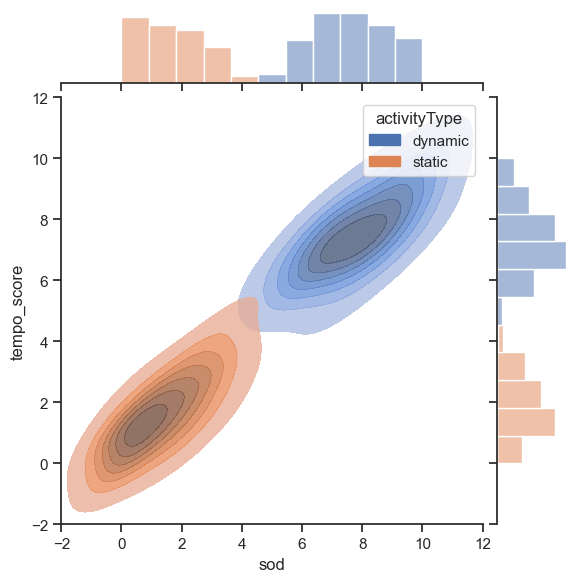
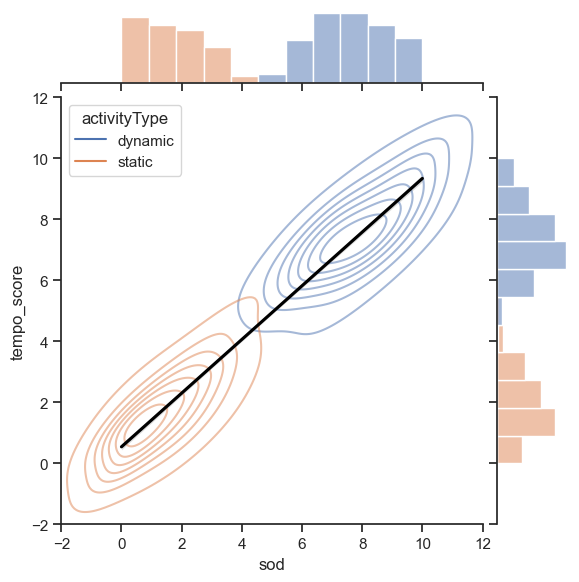
plots

Changed region(s): [[0.0933, 0.1856, 0.8394, 0.8969], [0.1244, 0.1856, 0.3109, 0.3093]]

diff --git a/code/artworkAnalyze.py b/code/artworkAnalyze.py
@@ -80,7 +80,8 @@ def tempo_graph():
     #ax = sns.lmplot(x="sod", y="tempo_score", data=df,  hue="activityType", palette=palette_colorTwo, scatter=False, legend=False)
     #ax.set(ylim=(-2, 12))   
     #ax.set(xlim=(-2, 12))   
-    ax = sns.kdeplot(x="sod", y="tempo_score", data=df, fill=True, alpha=.8, levels=8, hue="activityType", bw_adjust=1.8) 
+    ax = sns.kdeplot(x="sod", y="tempo_score", data=df, fill=False, alpha=.5, levels=8, hue="activityType", bw_adjust=1.8, linewidth=0)
+    ax = sns.regplot(x="sod", y="tempo_score", data=df, scatter=False, color="black")
     ax.set_xlim([-2, 12])
     ax.set_ylim([-2, 12])
     #ax.set_ylabel("Sense of Dynamic Score")
@@ -97,12 +98,12 @@ def pitch_graph():
     print(df_new.head(4))
     ax = plt.figure(figsize = (4,4))
     
-    ax = sns.jointplot(x="sod", y="pitch_score", data=df, kind="hist",  alpha=0.0, hue="activityType", palette=palette_colorTwo, legend = False)
+    ax = sns.jointplot(x="sod", y="pitch_score", data=df, kind="hist",  alpha=0.0, hue="activityType", palette=palette_colorTwo, legend = False, linewidth=0.3)
     #ax = sns.lmplot(x="sod", y="pitch_score", data=df,  hue="activityType", palette=palette_colorTwo, scatter=False, legend=False)
     #ax.set(ylim=(-2, 12))   
     #ax.set(xlim=(-2, 12))   
-    ax = sns.kdeplot(x="sod", y="pitch_score", data=df, fill=True, alpha=.8,  hue="activityType")
-    
+    ax = sns.kdeplot(x="sod", y="pitch_score", data=df, fill=False, alpha=.5,  hue="activityType", bw_adjust=1.2)
+    ax = sns.regplot(x="sod", y="pitch_score", data=df, scatter=False, color="black")
     ax.set_xlim([-2, 12])
     ax.set_ylim([-2, 12])
     #ax.set_xlabel("Pitch Level")
@@ -123,7 +124,8 @@ def density_graph():
     #ax = sns.lmplot(x="sod", y="density_score", data=df,  hue="activityType", palette=palette_colorTwo, scatter=False, legend=False)
     #ax.set(ylim=(-2, 12))   
     #ax.set(xlim=(-2, 12)) 
-    ax = sns.kdeplot(x="sod", y="density_score", data=df, fill=True, alpha=.8,  levels=8, hue="activityType", bw_adjust=1.8)
+    ax = sns.kdeplot(x="sod", y="density_score", data=df, fill=False, alpha=.5,  hue="activityType", bw_adjust=1.8, linewidth=0.2)
+    ax = sns.regplot(x="sod", y="density_score", data=df, scatter=False, color="black")
 
     ax.set_xlim([-2, 12])
     ax.set_ylim([-2, 12])
@@ -196,13 +198,13 @@ if __name__ == '__main__':
         
     #sod_graph()
 
-    #tempo_graph()
-    #pitch_graph()
-    #density_graph()
+    tempo_graph()
+    pitch_graph()
+    density_graph()
 
     #run for each artwork 
-    for i in range(21):
-        grid_heatmap("A" + str(i+1))    
+    #for i in range(21):
+    #    grid_heatmap("A" + str(i+1))    
 
 
 

diff --git a/code/finalAnalyze.py b/code/finalAnalyze.py
@@ -42,8 +42,7 @@ def elementGraph():
 
 
 def detailGraph():
-    df_new = pd.melt(df, id_vars=['nickname'], value_vars=["detail_poseSize", "detail_arms", "detail_inclination", "detail_effort", "detail_face", "detail_activity",
-             "detail_number", "detail_location", "detail_humanColor", "detail_bgColor"], var_name='details', value_name='value')
+    df_new = pd.melt(df, id_vars=['nickname'], value_vars=["detail_poseSize", "detail_arms", "detail_effort", "detail_activity","detail_face",  "detail_number", "detail_location", "detail_humanColor", "detail_bgColor"], var_name='details', value_name='value')
     print(df_new.head(4))
     ax = plt.figure(figsize = (16,5))
     sns.set_theme(style="ticks")
